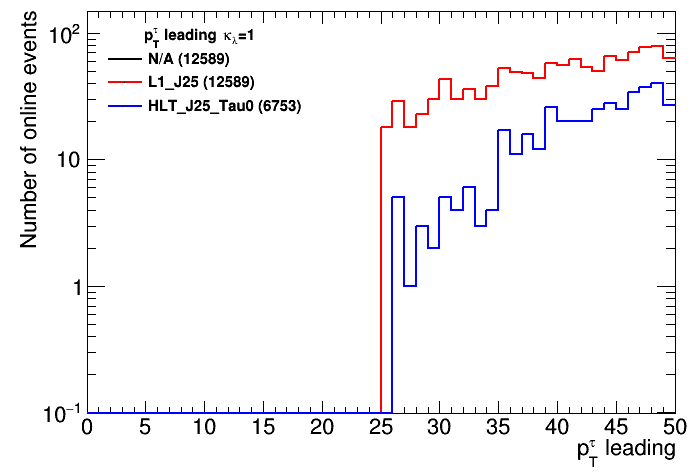
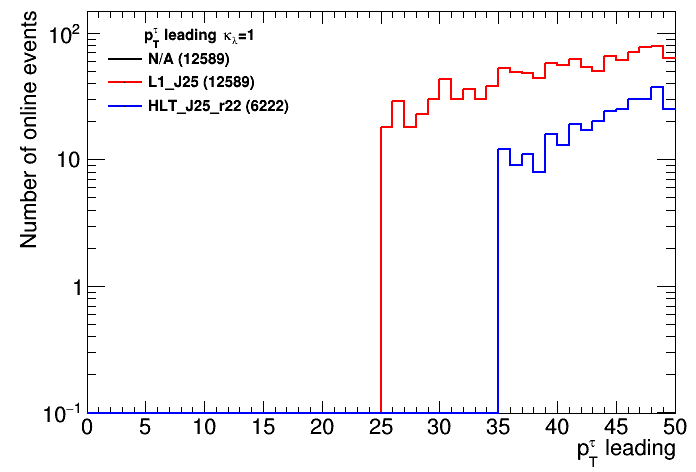
At lease the code L1_HLT_cut works

diff --git a/crosscheck_lxplus/L1_HLT_cut.py b/crosscheck_lxplus/L1_HLT_cut.py
@@ -130,7 +130,7 @@ list_order = [
         "p_{T}^{#tau} Subleading"
 ]
 
-def tree_loop_cut( input_root, t ):
+def tree_loop_cut_pt( input_root, t ):
     for k in range(len(kL)):
         if kL[k] == 1:
             inFile = ROOT.TFile.Open( input_root ,"READ")
@@ -142,123 +142,149 @@ def tree_loop_cut( input_root, t ):
     hlteta = []
     L1 = "N/A"
     HLT = "N/A"
-#####################################################################################
-###TrigMatched_Taus_HLTptfl##########################################################
+###################################################################################
+#TrigMatched_Taus_HLTptfl##########################################################
 
-#     hist_onhltptrnn = ROOT.TH1D("onhltpt_rnn","",50,0,1)
-#     hist_onhltptprong = ROOT.TH1D("onhltpt_prong","",10,0,10)
-#     hist_onhltptpt_r = ROOT.TH1D("onhltptpt_r","",50,0,50)
-#     hist_onhltptpt_lead_r = ROOT.TH1D("onhltptpt_lead_r","",50,0,50)
-#     hist_onhltptpt_sublead_r = ROOT.TH1D("onhltptpt_sublead_r","",50,0,50)
-#     hist_onhltptdeltaR = ROOT.TH1D("onhltptdeltaR", "",50, -1, 4)
+    hist_onhltptrnn = ROOT.TH1D("onhltpt_rnn","",50,0,1)
+    hist_onhltptprong = ROOT.TH1D("onhltpt_prong","",10,0,10)
+    hist_onhltptpt_r = ROOT.TH1D("onhltptpt_r","",50,0,50)
+    hist_onhltptpt_lead_r = ROOT.TH1D("onhltptpt_lead_r","",50,0,50)
+    hist_onhltptpt_sublead_r = ROOT.TH1D("onhltptpt_sublead_r","",50,0,50)
+    hist_onhltptdeltaR = ROOT.TH1D("onhltptdeltaR", "",50, -1, 4)
 
-#     hist_L1_onhltptrnn = ROOT.TH1D("L1_onhltpt_rnn","",50,0,1)
-#     hist_L1_onhltptprong = ROOT.TH1D("L1_onhltpt_prong","",10,0,10)
-#     hist_L1_onhltptpt_r = ROOT.TH1D("L1_onhltptpt_r","",50,0,50)
-#     hist_L1_onhltptpt_lead_r = ROOT.TH1D("L1_onhltptpt_lead_r","",50,0,50)
-#     hist_L1_onhltptpt_sublead_r = ROOT.TH1D("L1_onhltptpt_sublead_r","",50,0,50)
-#     hist_L1_onhltptdeltaR = ROOT.TH1D("L1_onhltptdeltaR", "",50, -1, 4)
+    hist_L1_onhltptrnn = ROOT.TH1D("L1_onhltpt_rnn","",50,0,1)
+    hist_L1_onhltptprong = ROOT.TH1D("L1_onhltpt_prong","",10,0,10)
+    hist_L1_onhltptpt_r = ROOT.TH1D("L1_onhltptpt_r","",50,0,50)
+    hist_L1_onhltptpt_lead_r = ROOT.TH1D("L1_onhltptpt_lead_r","",50,0,50)
+    hist_L1_onhltptpt_sublead_r = ROOT.TH1D("L1_onhltptpt_sublead_r","",50,0,50)
+    hist_L1_onhltptdeltaR = ROOT.TH1D("L1_onhltptdeltaR", "",50, -1, 4)
 
-#     hist_HLT_onhltptrnn = ROOT.TH1D("HLT_onhltpt_rnn","",50,0,1)
-#     hist_HLT_onhltptprong = ROOT.TH1D("HLT_onhltpt_prong","",10,0,10)
-#     hist_HLT_onhltptpt_r = ROOT.TH1D("HLT_onhltptpt_r","",50,0,50)
-#     hist_HLT_onhltptpt_lead_r = ROOT.TH1D("HLT_onhltptpt_lead_r","",50,0,50)
-#     hist_HLT_onhltptpt_sublead_r = ROOT.TH1D("HLT_onhltptpt_sublead_r","",50,0,50)
-#     hist_HLT_onhltptdeltaR = ROOT.TH1D("HLT_onhltptdeltaR", "",50, -1, 4)
+    hist_HLT_onhltptrnn = ROOT.TH1D("HLT_onhltpt_rnn","",50,0,1)
+    hist_HLT_onhltptprong = ROOT.TH1D("HLT_onhltpt_prong","",10,0,10)
+    hist_HLT_onhltptpt_r = ROOT.TH1D("HLT_onhltptpt_r","",50,0,50)
+    hist_HLT_onhltptpt_lead_r = ROOT.TH1D("HLT_onhltptpt_lead_r","",50,0,50)
+    hist_HLT_onhltptpt_sublead_r = ROOT.TH1D("HLT_onhltptpt_sublead_r","",50,0,50)
+    hist_HLT_onhltptdeltaR = ROOT.TH1D("HLT_onhltptdeltaR", "",50, -1, 4)
 
-#     # Loop over entries
-#     for entry in entries:
-#         tree.GetEntry(entry)
-#         L1_1 = getattr(tree, "L1_J25")
-#         L1 = "L1_J25"
-#         # Bit confused about this point of trigger use 
-#         if taus[t] == "r22_Pass" or taus[t] == "Tau0_Pass":
-#             HLT_1 = getattr(tree, "HLT_J25_r22")
-#             HLT = "HLT_J25_r22"
-#         elif taus[t] == "r22_PassFail" or taus[t] == "Tau0_PassFail":
-#             HLT_1 = getattr(tree, "HLT_J25_Tau0")
-#             HLT = "HLT_J25_Tau0"
-        
-#         # Loop over without cut 
-#         for i in range(len(tree.TrigMatched_Taus_HLTptfl)):
-#             hist_onhltptpt_r.Fill(tree.TrigMatched_Taus_HLTptfl[i].Pt(),1)
-#             if(i==0):  
-#                 hist_onhltptpt_lead_r.Fill(
-#                     tree.TrigMatched_Taus_HLTptfl[0].Pt(),1)
-#             if(i==1):
-#                 hist_onhltptpt_sublead_r.Fill(
-#                     tree.TrigMatched_Taus_HLTptfl[1].Pt(),1)
-#                 vec0= tree.TrigMatched_Taus_HLTptfl[0].Vect()
-#                 vec1= tree.TrigMatched_Taus_HLTptfl[1].Vect()
-#                 hist_onhltptdeltaR.Fill(vec1.DeltaR(vec0))  
-#         for j in range(len(tree.TrigMatched_rnn_HLTptfl)):
-#             hist_onhltptrnn.Fill(tree.TrigMatched_rnn_HLTptfl[j],1)
-#         for k in range(len(tree.TrigMatched_rnn_HLTptfl)):
-#             hist_onhltptprong.Fill(tree.TrigMatched_prong_HLTptfl[k], 1)
+    # Loop over entries
+    for entry in entries:
+        tree.GetEntry(entry)
+        L1_1 = getattr(tree, "L1_J25")
+        L1 = "L1_J25"
+        # Bit confused about this point of trigger use 
+        if taus[t] == "r22_Pass":
+            HLT_1 = getattr(tree, "HLT_J25_r22")
+            HLT = "HLT_J25_r22"
+        elif taus[t] == "r22_PassFail":
+            HLT_1 = getattr(tree, "HLT_J25_r22")
+            HLT = "HLT_J25_r22"
+        elif taus[t] == "Tau0_Pass":
+            HLT_1 = getattr(tree, "HLT_J25_Tau0")
+            HLT = "HLT_J20_Tau0"
+        elif taus[t] == "Tau0_PassFail":
+            HLT_1 = getattr(tree, "HLT_J25_Tau0")
+            HLT = "HLT_J20_Tau0"
 
-#         # Loop over with L1 cut 
-#         if L1_1:
-#             for i in range(len(tree.TrigMatched_Taus_HLTptfl)):
-#                 hist_L1_onhltptpt_r.Fill(tree.TrigMatched_Taus_HLTptfl[i].Pt(),1)
-#                 if(i==0):
-#                     hist_L1_onhltptpt_lead_r.Fill(
-#                         tree.TrigMatched_Taus_HLTptfl[0].Pt(),1)
-#                 if(i==1):
-#                     hist_L1_onhltptpt_sublead_r.Fill(
-#                         tree.TrigMatched_Taus_HLTptfl[1].Pt(),1)
-#                     # Fill DeltaR
-#                     vec0= tree.TrigMatched_Taus_HLTptfl[0].Vect()
-#                     vec1= tree.TrigMatched_Taus_HLTptfl[1].Vect()
-#                     hist_L1_onhltptdeltaR.Fill(vec0.DeltaR(vec1))
-#             for j in range(len(tree.TrigMatched_rnn_HLTptfl)):
-#                 hist_L1_onhltptrnn.Fill(tree.TrigMatched_rnn_HLTptfl[j],1)
-#             for k in range(len(tree.TrigMatched_rnn_HLTptfl)):
-#                 hist_L1_onhltptprong.Fill(tree.TrigMatched_prong_HLTptfl[k], 1)
-#             # Loop over with HLT cut 
-#             if HLT_1:
-#                 for i in range(len(tree.TrigMatched_Taus_HLTptfl)):
-#                     hist_HLT_onhltptpt_r.Fill(tree.TrigMatched_Taus_HLTptfl[i].Pt(),1)
-#                     if(i==0):
-#                         hist_HLT_onhltptpt_lead_r.Fill(tree.TrigMatched_Taus_HLTptfl[0].Pt(),1)
-#                     if(i==1):
-#                         hist_HLT_onhltptpt_sublead_r.Fill(tree.TrigMatched_Taus_HLTptfl[1].Pt(),1)
-#                         # Fill DeltaR
-#                         vec0= tree.TrigMatched_Taus_HLTptfl[0].Vect()
-#                         vec1= tree.TrigMatched_Taus_HLTptfl[1].Vect()
-#                         hist_HLT_onhltptdeltaR.Fill(vec0.DeltaR(vec1))
-#                 for j in range(len(tree.TrigMatched_rnn_HLTptfl)):
-#                     hist_HLT_onhltptrnn.Fill(tree.TrigMatched_rnn_HLTptfl[j],1)
-#                 for k in range(len(tree.TrigMatched_rnn_HLTptfl)):
-#                     hist_HLT_onhltptprong.Fill(tree.TrigMatched_prong_HLTptfl[k], 1)
+        # Loop over without cut 
+        for i in range(len(tree.TrigMatched_Taus_HLTptfl)):
+            hist_onhltptpt_r.Fill(tree.TrigMatched_Taus_HLTptfl[i].Pt(),1)
+            if(i==0):  
+                hist_onhltptpt_lead_r.Fill(
+                    tree.TrigMatched_Taus_HLTptfl[0].Pt(),1)
+            if(i==1):
+                hist_onhltptpt_sublead_r.Fill(
+                    tree.TrigMatched_Taus_HLTptfl[1].Pt(),1)
+                vec0= tree.TrigMatched_Taus_HLTptfl[0].Vect()
+                vec1= tree.TrigMatched_Taus_HLTptfl[1].Vect()
+                hist_onhltptdeltaR.Fill(vec1.DeltaR(vec0))  
+        for j in range(len(tree.TrigMatched_rnn_HLTptfl)):
+            hist_onhltptrnn.Fill(tree.TrigMatched_rnn_HLTptfl[j],1)
+        for k in range(len(tree.TrigMatched_rnn_HLTptfl)):
+            hist_onhltptprong.Fill(tree.TrigMatched_prong_HLTptfl[k], 1)
+
+        # Loop over with L1 cut 
+        if L1_1:
+            for i in range(len(tree.TrigMatched_Taus_HLTptfl)):
+                hist_L1_onhltptpt_r.Fill(tree.TrigMatched_Taus_HLTptfl[i].Pt(),1)
+                if(i==0):
+                    hist_L1_onhltptpt_lead_r.Fill(
+                        tree.TrigMatched_Taus_HLTptfl[0].Pt(),1)
+                if(i==1):
+                    hist_L1_onhltptpt_sublead_r.Fill(
+                        tree.TrigMatched_Taus_HLTptfl[1].Pt(),1)
+                    # Fill DeltaR
+                    vec0= tree.TrigMatched_Taus_HLTptfl[0].Vect()
+                    vec1= tree.TrigMatched_Taus_HLTptfl[1].Vect()
+                    hist_L1_onhltptdeltaR.Fill(vec0.DeltaR(vec1))
+            for j in range(len(tree.TrigMatched_rnn_HLTptfl)):
+                hist_L1_onhltptrnn.Fill(tree.TrigMatched_rnn_HLTptfl[j],1)
+            for k in range(len(tree.TrigMatched_rnn_HLTptfl)):
+                hist_L1_onhltptprong.Fill(tree.TrigMatched_prong_HLTptfl[k], 1)
+            # Loop over with HLT cut 
+            if HLT_1:
+                for i in range(len(tree.TrigMatched_Taus_HLTptfl)):
+                    hist_HLT_onhltptpt_r.Fill(tree.TrigMatched_Taus_HLTptfl[i].Pt(),1)
+                    if(i==0):
+                        hist_HLT_onhltptpt_lead_r.Fill(tree.TrigMatched_Taus_HLTptfl[0].Pt(),1)
+                    if(i==1):
+                        hist_HLT_onhltptpt_sublead_r.Fill(tree.TrigMatched_Taus_HLTptfl[1].Pt(),1)
+                        # Fill DeltaR
+                        vec0= tree.TrigMatched_Taus_HLTptfl[0].Vect()
+                        vec1= tree.TrigMatched_Taus_HLTptfl[1].Vect()
+                        hist_HLT_onhltptdeltaR.Fill(vec0.DeltaR(vec1))
+                for j in range(len(tree.TrigMatched_rnn_HLTptfl)):
+                    hist_HLT_onhltptrnn.Fill(tree.TrigMatched_rnn_HLTptfl[j],1)
+                for k in range(len(tree.TrigMatched_rnn_HLTptfl)):
+                    hist_HLT_onhltptprong.Fill(tree.TrigMatched_prong_HLTptfl[k], 1)
     
-#     hltpt.append(hist_onhltptrnn)
-#     hltpt.append(hist_onhltptprong)
-#     hltpt.append(hist_onhltptdeltaR)
-#     hltpt.append(hist_onhltptpt_lead_r)
-#     hltpt.append(hist_onhltptpt_sublead_r)
+    hltpt.append(hist_onhltptrnn)
+    hltpt.append(hist_onhltptprong)
+    hltpt.append(hist_onhltptdeltaR)
+    hltpt.append(hist_onhltptpt_lead_r)
+    hltpt.append(hist_onhltptpt_sublead_r)
 
-#     hltpt.append(hist_L1_onhltptrnn)
-#     hltpt.append(hist_L1_onhltptprong)
-#     hltpt.append(hist_L1_onhltptdeltaR)
-#     hltpt.append(hist_L1_onhltptpt_lead_r)
-#     hltpt.append(hist_L1_onhltptpt_sublead_r)
+    hltpt.append(hist_L1_onhltptrnn)
+    hltpt.append(hist_L1_onhltptprong)
+    hltpt.append(hist_L1_onhltptdeltaR)
+    hltpt.append(hist_L1_onhltptpt_lead_r)
+    hltpt.append(hist_L1_onhltptpt_sublead_r)
 
-#     hltpt.append(hist_HLT_onhltptrnn)
-#     hltpt.append(hist_HLT_onhltptprong)
-#     hltpt.append(hist_HLT_onhltptdeltaR)
-#     hltpt.append(hist_HLT_onhltptpt_lead_r)
-#     hltpt.append(hist_HLT_onhltptpt_sublead_r)
-# ######################################################################################
+    hltpt.append(hist_HLT_onhltptrnn)
+    hltpt.append(hist_HLT_onhltptprong)
+    hltpt.append(hist_HLT_onhltptdeltaR)
+    hltpt.append(hist_HLT_onhltptpt_lead_r)
+    hltpt.append(hist_HLT_onhltptpt_sublead_r)
+######################################################################################
 
-#     for i in range(5):
-#         #posleg(leg_pos[i][0], leg_pos[i][1], leg_pos[i][2])
-#         hist_print_compare([hltpt[i],
-#                             hltpt[i+5], 
-#                             hltpt[i+10]],
-#                 ["N/A", L1,  HLT],
-#                 list_order[i], t)
+    for i in range(5):
+        #posleg(leg_pos[i][0], leg_pos[i][1], leg_pos[i][2])
+        hist_print_compare([hltpt[i],
+                            hltpt[i+5], 
+                            hltpt[i+10]],
+                ["N/A", L1,  HLT],
+                list_order[i], t)
+        a = [   int(hltpt[i].GetEntries()), 
+                int(hltpt[i+5].GetEntries()), 
+                int(hltpt[i+10].GetEntries())]
+        print("Efficiency HLT/L1", a[2]/a[1])
+        b = [   hltpt[i].GetName(), 
+                hltpt[i+5].GetName(), 
+                hltpt[i+10].GetName()]
+        print("Efficiency "+b[2]+"HLT/L1", a[2]/a[1])
+        
+def tree_loop_cut_eta( input_root, t ):
+    for k in range(len(kL)):
+        if kL[k] == 1:
+            inFile = ROOT.TFile.Open( input_root ,"READ")
 
-####TrigMatched_Taus_HLTetafl##################################################################################
+    print("Start Looping ", taus[t])
+    tree = inFile.Get("analysis")
+    entries = range(tree.GetEntries())
+    hltpt = []
+    hlteta = []
+    L1 = "N/A"
+    HLT = "N/A"
+###TrigMatched_Taus_HLTetafl##################################################################################
     hist_onhltetarnn = ROOT.TH1D("onhlteta_rnn","",50,0,1)
     hist_onhltetaprong = ROOT.TH1D("onhlteta_prong","",10,0,10)
     hist_onhltetapt_r = ROOT.TH1D("onhltetapt_r","",50,0,50)
@@ -286,10 +312,16 @@ def tree_loop_cut( input_root, t ):
         L1_2 = getattr(tree, "L1_ETA25")
         L1 = "L1_ETA25"
         # Bit confused about this point of trigger use 
-        if taus[t] == "r22_Pass" or taus[t] == "Tau0_Pass":
+        if taus[t] == "r22_Pass":
             HLT_2 = getattr(tree, "HLT_ETA25_r22")
             HLT = "HLT_ETA25_r22"
-        elif taus[t] == "r22_PassFail" or taus[t] == "Tau0_PassFail":
+        elif taus[t] == "r22_PassFail":
+            HLT_2 = getattr(tree, "HLT_ETA25_r22")
+            HLT = "HLT_ETA25_r22"
+        elif taus[t] == "Tau0_Pass":
+            HLT_2 = getattr(tree, "HLT_ETA25_Tau0")
+            HLT = "HLT_ETA25_Tau0"
+        elif taus[t] == "Tau0_PassFail":
             HLT_2 = getattr(tree, "HLT_ETA25_Tau0")
             HLT = "HLT_ETA25_Tau0"
 
@@ -361,18 +393,26 @@ def tree_loop_cut( input_root, t ):
     hlteta.append(hist_HLT_onhltetapt_sublead_r)
 ######################################################################################
     for i in range(5):
-        #posleg(leg_pos[i][0], leg_pos[i][1], leg_pos[i][2])
+        posleg(leg_pos[i][0], leg_pos[i][1], leg_pos[i][2])
         hist_print_compare([hlteta[i],
                             hlteta[i+5], 
                             hlteta[i+10]],
                 ["N/A", L1,  HLT],
                 list_order[i], t)
+        a = [   int(hlteta[i].GetEntries()), 
+                int(hlteta[i+5].GetEntries()), 
+                int(hlteta[i+10].GetEntries())]
+        b = [   hlteta[i].GetName(), 
+                hlteta[i+5].GetName(), 
+                hlteta[i+10].GetName()]
+        print("Efficiency "+b[2]+"HLT/L1", a[2]/a[1])
 
 def main():
     # tree_loop_cut( "r22_Pass.root", 0)
     # tree_loop_cut("r22_PassFail.root", 1)
     # tree_loop_cut("Tau0_Pass.root", 2)
-    tree_loop_cut("Tau0_PassFail.root", 3)
+    # tree_loop_cut_pt("Tau0_PassFail.root", 3)
+    tree_loop_cut_eta("Tau0_Pass.root", 2)
 
 if __name__ == "__main__" :
     print("Hello, Start Ploting for HLT")
@@ -388,4 +428,3 @@ if __name__ == "__main__" :
 #   could not observe in the plots 
 #   by other person. 
 
- 
